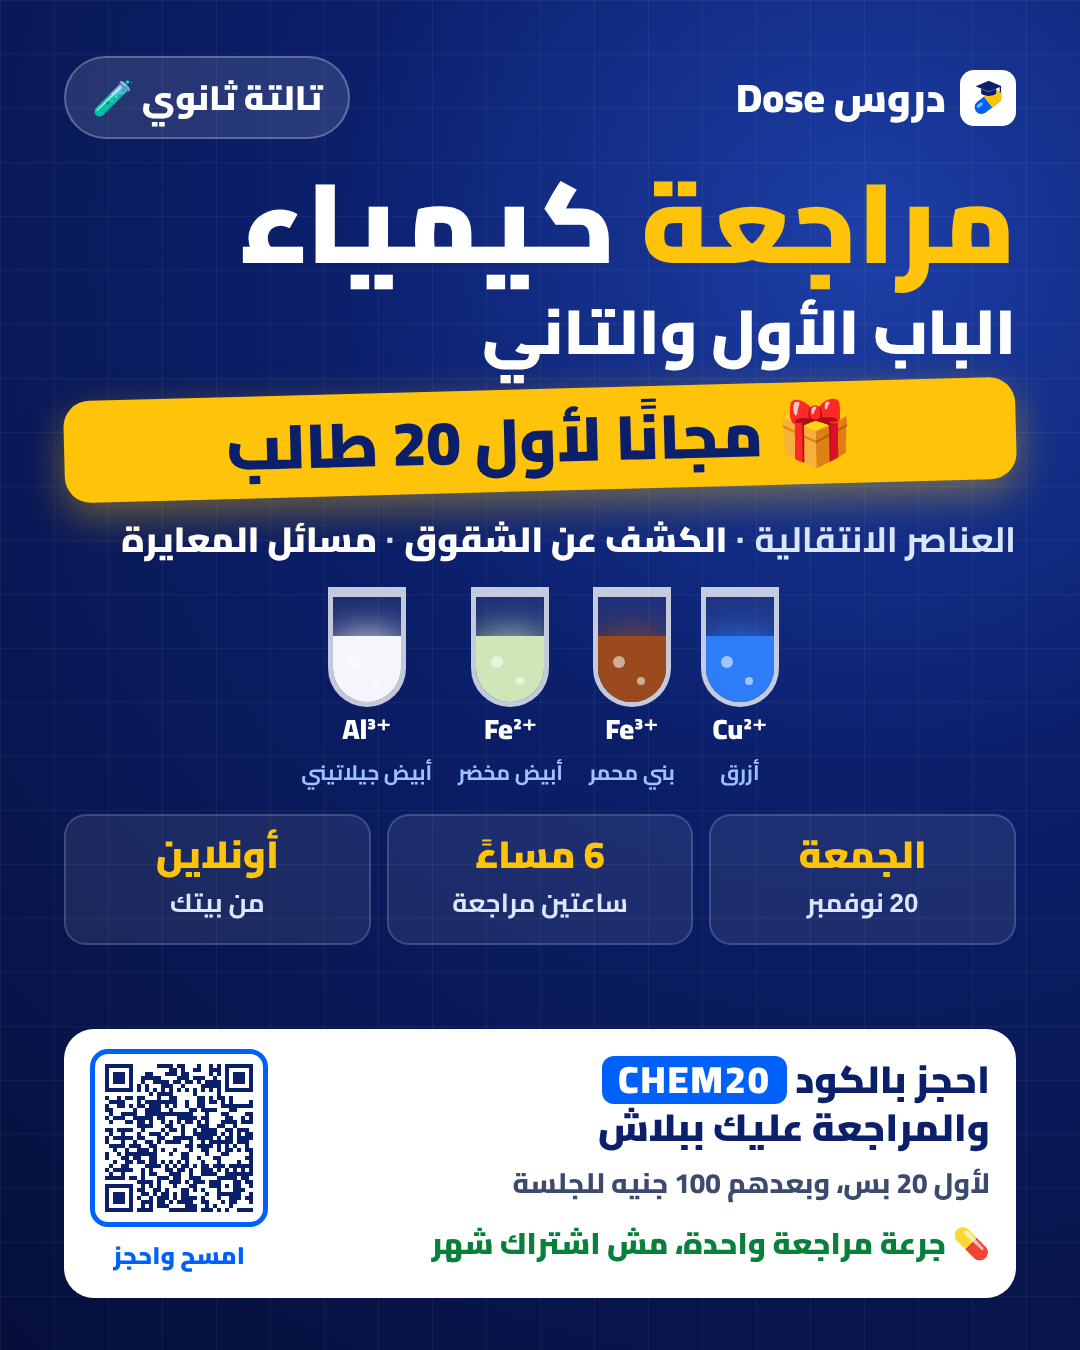
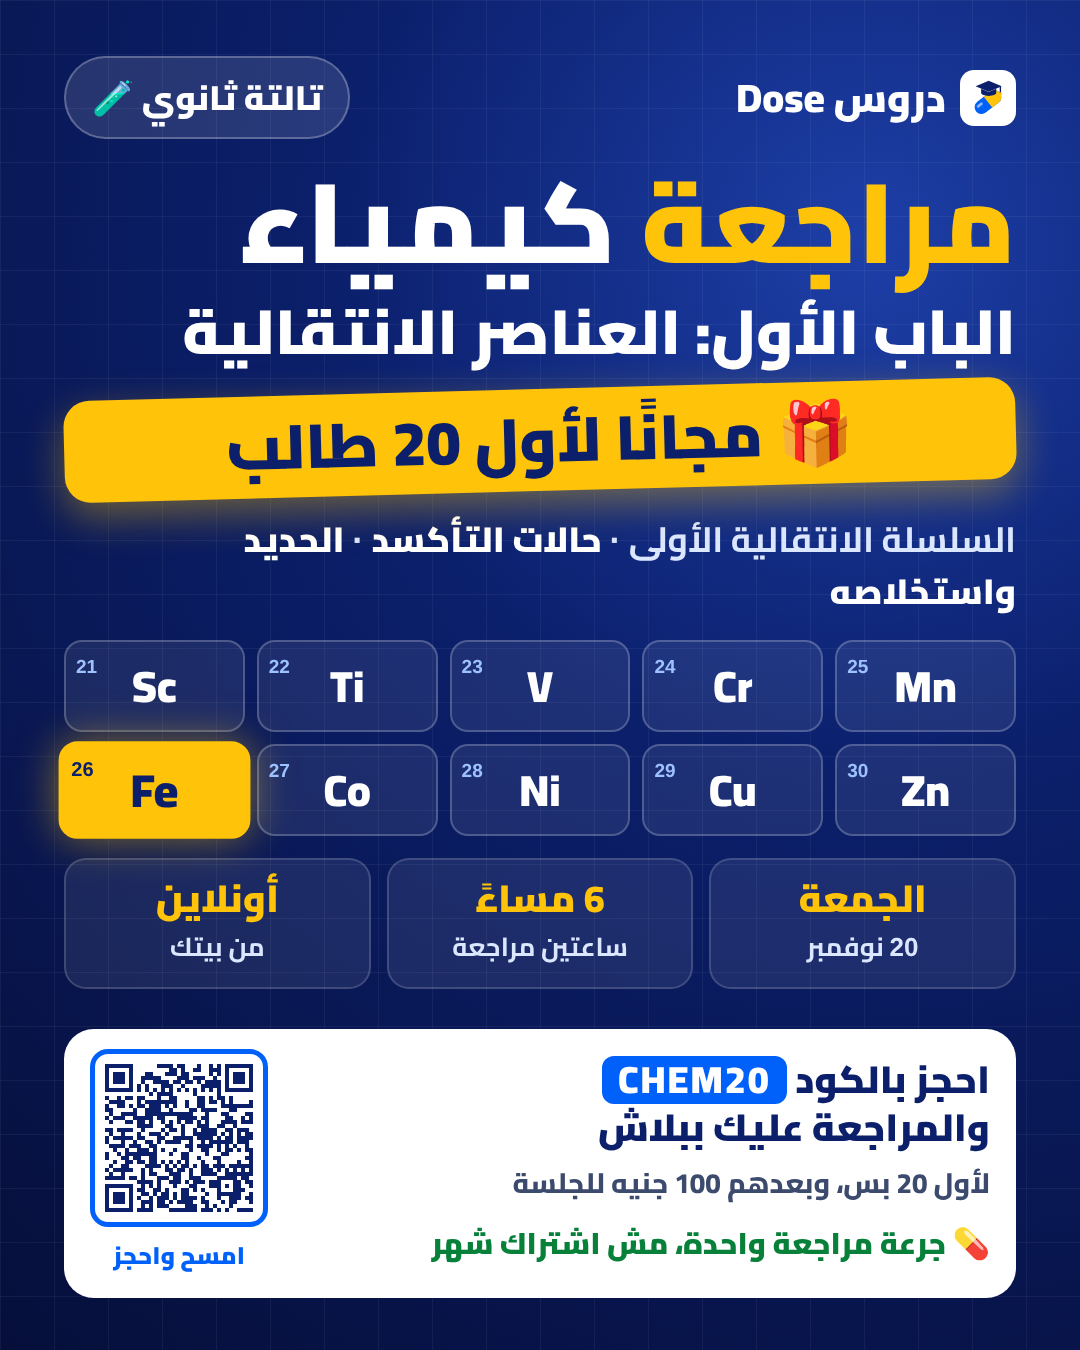
Chemistry review: chapter 1 only (transition elements); posters updated
Claude-Session: https://claude.ai/code/session_01PqXfUFUeuu3X2isE3Jtabv

diff --git a/marketing/campaigns/chem-review-nov20/poster-story.html b/marketing/campaigns/chem-review-nov20/poster-story.html
@@ -15,20 +15,18 @@ body{font-family:Cairo,sans-serif;color:#fff;background:radial-gradient(circle a
 .brand .m{width:56px;height:56px;background:#fff;border-radius:14px;padding:6px} .brand .m svg{width:100%;height:100%;display:block}
 .free{background:#FFC30A;color:#0B1F6B;font-weight:900;font-size:34px;padding:10px 26px;border-radius:999px;transform:rotate(-3deg);box-shadow:0 10px 30px rgba(255,195,10,.35)}
 .grade{background:rgba(255,255,255,.12);border:2px solid rgba(255,255,255,.25);font-weight:900;font-size:34px;padding:8px 26px;border-radius:999px}
-.h2{font-weight:900;font-size:72px;line-height:1.15;color:#fff;margin-top:-10px}
+.h2{font-weight:900;font-size:60px;line-height:1.15;color:#fff;margin-top:-10px}
 .ribbon{align-self:stretch;text-align:center;background:#FFC30A;color:#0B1F6B;font-weight:900;font-size:74px;line-height:1.25;padding:18px 10px;border-radius:26px;transform:rotate(-1.5deg);box-shadow:0 14px 40px rgba(255,195,10,.4)}
 .kicker{font-weight:800;font-size:36px;color:#9ec2ff}
 .h1{font-weight:900;font-size:132px;line-height:1.1}
 .h1 .y{color:#FFC30A}
 .sub{font-weight:700;font-size:35px;line-height:1.5;color:#dbe6ff}
 .sub b{color:#fff}
-.tubes{display:flex;gap:26px;justify-content:center;margin:10px 0}
-.tube{display:flex;flex-direction:column;align-items:center;gap:6px}
-.glass{position:relative;width:96px;height:230px;border:5px solid rgba(255,255,255,.75);border-top:none;border-radius:0 0 50px 50px;overflow:hidden;background:rgba(255,255,255,.06)}
-.glass:before{content:"";position:absolute;top:0;left:-9px;right:-9px;height:10px;background:rgba(255,255,255,.75);border-radius:6px}
-.liq{position:absolute;inset:auto 0 0 0;height:58%;background:var(--c);box-shadow:0 0 40px var(--c)}
-.bub{position:absolute;width:12px;height:12px;border-radius:50%;background:rgba(255,255,255,.55)} .b1{left:22%;bottom:30%} .b2{left:58%;bottom:15%;width:8px;height:8px}
-.tube b{font-size:34px;font-weight:900;line-height:1.2} .tube span{font-size:24px;font-weight:700;color:#9ec2ff}
+.tubes{display:grid;grid-template-columns:repeat(5,1fr);gap:16px;direction:ltr;margin:10px 0}
+.el{position:relative;background:rgba(255,255,255,.08);border:2px solid rgba(255,255,255,.22);border-radius:18px;height:130px;display:grid;place-items:center}
+.el i{position:absolute;top:6px;left:10px;font-style:normal;font-weight:700;font-size:24px;color:#9ec2ff}
+.el b{font-weight:900;font-size:58px}
+.el.fe{background:#FFC30A;border-color:#FFC30A;color:#0B1F6B;box-shadow:0 0 40px rgba(255,195,10,.5);transform:scale(1.06)} .el.fe i{color:#0B1F6B}
 .when{display:grid;grid-template-columns:repeat(3,1fr);gap:16px}
 .when div{background:rgba(255,255,255,.08);border:2px solid rgba(255,255,255,.16);border-radius:22px;padding:16px 10px;text-align:center}
 .when b{display:block;font-size:44px;font-weight:900;color:#FFC30A;line-height:1.2}
@@ -59,18 +57,10 @@ body{font-family:Cairo,sans-serif;color:#fff;background:radial-gradient(circle a
 </svg>
 </span>دروس Dose</div><div class="grade">تالتة ثانوي 🧪</div></div>
 <div class="h1"><span class="y">مراجعة</span> كيمياء</div>
-<div class="h2">الباب الأول والتاني</div>
+<div class="h2">الباب الأول: العناصر الانتقالية</div>
 <div class="ribbon">🎁 مجانًا لأول 20 طالب</div>
-<div class="sub">العناصر الانتقالية · <b>الكشف عن الشقوق</b> · <b>مسائل المعايرة</b></div>
-<div class="tubes"><div class="tube" style="--c:#2f7df6;--d:0">
-  <div class="glass"><div class="liq"></div><div class="bub b1"></div><div class="bub b2"></div></div>
-  <b dir="ltr">Cu²⁺</b><span>أزرق</span></div><div class="tube" style="--c:#9a4a1c;--d:1">
-  <div class="glass"><div class="liq"></div><div class="bub b1"></div><div class="bub b2"></div></div>
-  <b dir="ltr">Fe³⁺</b><span>بني محمر</span></div><div class="tube" style="--c:#cfe6b8;--d:2">
-  <div class="glass"><div class="liq"></div><div class="bub b1"></div><div class="bub b2"></div></div>
-  <b dir="ltr">Fe²⁺</b><span>أبيض مخضر</span></div><div class="tube" style="--c:#f4f6fb;--d:3">
-  <div class="glass"><div class="liq"></div><div class="bub b1"></div><div class="bub b2"></div></div>
-  <b dir="ltr">Al³⁺</b><span>أبيض جيلاتيني</span></div></div>
+<div class="sub">السلسلة الانتقالية الأولى · <b>حالات التأكسد</b> · <b>الحديد واستخلاصه</b></div>
+<div class="tubes"><div class="el"><i>21</i><b>Sc</b></div><div class="el"><i>22</i><b>Ti</b></div><div class="el"><i>23</i><b>V</b></div><div class="el"><i>24</i><b>Cr</b></div><div class="el"><i>25</i><b>Mn</b></div><div class="el fe"><i>26</i><b>Fe</b></div><div class="el"><i>27</i><b>Co</b></div><div class="el"><i>28</i><b>Ni</b></div><div class="el"><i>29</i><b>Cu</b></div><div class="el"><i>30</i><b>Zn</b></div></div>
 <div class="when"><div><b>الجمعة</b><span>20 نوفمبر</span></div><div><b>6 مساءً</b><span>ساعتين مراجعة</span></div><div><b>أونلاين</b><span>من بيتك</span></div></div>
 <div class="offer"><div class="t">
   <div class="l1">احجز بالكود <span class="code">CHEM20</span><br/>والمراجعة عليك ببلاش</div>

diff --git a/marketing/campaigns/chem-review-nov20/poster-feed.html b/marketing/campaigns/chem-review-nov20/poster-feed.html
@@ -22,13 +22,11 @@ body{font-family:Cairo,sans-serif;color:#fff;background:radial-gradient(circle a
 .h1 .y{color:#FFC30A}
 .sub{font-weight:700;font-size:35px;line-height:1.5;color:#dbe6ff}
 .sub b{color:#fff}
-.tubes{display:flex;gap:26px;justify-content:center;margin:0}
-.tube{display:flex;flex-direction:column;align-items:center;gap:6px}
-.glass{position:relative;width:78px;height:120px;border:5px solid rgba(255,255,255,.75);border-top:none;border-radius:0 0 50px 50px;overflow:hidden;background:rgba(255,255,255,.06)}
-.glass:before{content:"";position:absolute;top:0;left:-9px;right:-9px;height:10px;background:rgba(255,255,255,.75);border-radius:6px}
-.liq{position:absolute;inset:auto 0 0 0;height:58%;background:var(--c);box-shadow:0 0 40px var(--c)}
-.bub{position:absolute;width:12px;height:12px;border-radius:50%;background:rgba(255,255,255,.55)} .b1{left:22%;bottom:30%} .b2{left:58%;bottom:15%;width:8px;height:8px}
-.tube b{font-size:28px;font-weight:900;line-height:1.2} .tube span{font-size:21px;font-weight:700;color:#9ec2ff}
+.tubes{display:grid;grid-template-columns:repeat(5,1fr);gap:12px;direction:ltr;margin:0}
+.el{position:relative;background:rgba(255,255,255,.08);border:2px solid rgba(255,255,255,.22);border-radius:18px;height:92px;display:grid;place-items:center}
+.el i{position:absolute;top:6px;left:10px;font-style:normal;font-weight:700;font-size:19px;color:#9ec2ff}
+.el b{font-weight:900;font-size:44px}
+.el.fe{background:#FFC30A;border-color:#FFC30A;color:#0B1F6B;box-shadow:0 0 40px rgba(255,195,10,.5);transform:scale(1.06)} .el.fe i{color:#0B1F6B}
 .when{display:grid;grid-template-columns:repeat(3,1fr);gap:16px}
 .when div{background:rgba(255,255,255,.08);border:2px solid rgba(255,255,255,.16);border-radius:22px;padding:16px 10px;text-align:center}
 .when b{display:block;font-size:38px;font-weight:900;color:#FFC30A;line-height:1.2}
@@ -59,18 +57,10 @@ body{font-family:Cairo,sans-serif;color:#fff;background:radial-gradient(circle a
 </svg>
 </span>دروس Dose</div><div class="grade">تالتة ثانوي 🧪</div></div>
 <div class="h1"><span class="y">مراجعة</span> كيمياء</div>
-<div class="h2">الباب الأول والتاني</div>
+<div class="h2">الباب الأول: العناصر الانتقالية</div>
 <div class="ribbon">🎁 مجانًا لأول 20 طالب</div>
-<div class="sub">العناصر الانتقالية · <b>الكشف عن الشقوق</b> · <b>مسائل المعايرة</b></div>
-<div class="tubes"><div class="tube" style="--c:#2f7df6;--d:0">
-  <div class="glass"><div class="liq"></div><div class="bub b1"></div><div class="bub b2"></div></div>
-  <b dir="ltr">Cu²⁺</b><span>أزرق</span></div><div class="tube" style="--c:#9a4a1c;--d:1">
-  <div class="glass"><div class="liq"></div><div class="bub b1"></div><div class="bub b2"></div></div>
-  <b dir="ltr">Fe³⁺</b><span>بني محمر</span></div><div class="tube" style="--c:#cfe6b8;--d:2">
-  <div class="glass"><div class="liq"></div><div class="bub b1"></div><div class="bub b2"></div></div>
-  <b dir="ltr">Fe²⁺</b><span>أبيض مخضر</span></div><div class="tube" style="--c:#f4f6fb;--d:3">
-  <div class="glass"><div class="liq"></div><div class="bub b1"></div><div class="bub b2"></div></div>
-  <b dir="ltr">Al³⁺</b><span>أبيض جيلاتيني</span></div></div>
+<div class="sub">السلسلة الانتقالية الأولى · <b>حالات التأكسد</b> · <b>الحديد واستخلاصه</b></div>
+<div class="tubes"><div class="el"><i>21</i><b>Sc</b></div><div class="el"><i>22</i><b>Ti</b></div><div class="el"><i>23</i><b>V</b></div><div class="el"><i>24</i><b>Cr</b></div><div class="el"><i>25</i><b>Mn</b></div><div class="el fe"><i>26</i><b>Fe</b></div><div class="el"><i>27</i><b>Co</b></div><div class="el"><i>28</i><b>Ni</b></div><div class="el"><i>29</i><b>Cu</b></div><div class="el"><i>30</i><b>Zn</b></div></div>
 <div class="when"><div><b>الجمعة</b><span>20 نوفمبر</span></div><div><b>6 مساءً</b><span>ساعتين مراجعة</span></div><div><b>أونلاين</b><span>من بيتك</span></div></div>
 <div class="offer"><div class="t">
   <div class="l1">احجز بالكود <span class="code">CHEM20</span><br/>والمراجعة عليك ببلاش</div>

diff --git a/marketing/campaigns/chem-review-nov20/poster.py b/marketing/campaigns/chem-review-nov20/poster.py
@@ -7,16 +7,11 @@ fonts = os.path.abspath(os.path.join(here, '../../../src/Dose.Web/node_modules/@
 qr = open(os.path.join(here, 'qr.svg'), encoding='utf-8').read()
 mark = open(os.path.join(here, '../../../src/Dose.Web/public/brand/dose-mark.svg'), encoding='utf-8').read()
 
-# Test tubes: the real colours of the hydroxide precipitates students must memorise in chapter 2.
-TUBES = [('#2f7df6', 'Cu²⁺', 'أزرق'), ('#9a4a1c', 'Fe³⁺', 'بني محمر'), ('#cfe6b8', 'Fe²⁺', 'أبيض مخضر'), ('#f4f6fb', 'Al³⁺', 'أبيض جيلاتيني')]
+# The first transition series (chapter 1), iron highlighted.
+SERIES = [(21,'Sc'),(22,'Ti'),(23,'V'),(24,'Cr'),(25,'Mn'),(26,'Fe'),(27,'Co'),(28,'Ni'),(29,'Cu'),(30,'Zn')]
 
 def tubes():
-    out = []
-    for i, (c, ion, name) in enumerate(TUBES):
-        out.append(f'''<div class="tube" style="--c:{c};--d:{i}">
-  <div class="glass"><div class="liq"></div><div class="bub b1"></div><div class="bub b2"></div></div>
-  <b dir="ltr">{ion}</b><span>{name}</span></div>''')
-    return ''.join(out)
+    return ''.join(f'<div class="el{" fe" if sym=="Fe" else ""}"><i>{z}</i><b>{sym}</b></div>' for z, sym in SERIES)
 
 def page(w, h, story):
     return f'''<!doctype html><html lang="ar" dir="rtl"><head><meta charset="utf-8"><style>
@@ -36,20 +31,18 @@ body{{font-family:Cairo,sans-serif;color:#fff;background:radial-gradient(circle 
 .brand .m{{width:56px;height:56px;background:#fff;border-radius:14px;padding:6px}} .brand .m svg{{width:100%;height:100%;display:block}}
 .free{{background:#FFC30A;color:#0B1F6B;font-weight:900;font-size:34px;padding:10px 26px;border-radius:999px;transform:rotate(-3deg);box-shadow:0 10px 30px rgba(255,195,10,.35)}}
 .grade{{background:rgba(255,255,255,.12);border:2px solid rgba(255,255,255,.25);font-weight:900;font-size:34px;padding:8px 26px;border-radius:999px}}
-.h2{{font-weight:900;font-size:{'72px' if story else '62px'};line-height:1.15;color:#fff;margin-top:-10px}}
+.h2{{font-weight:900;font-size:{'60px' if story else '62px'};line-height:1.15;color:#fff;margin-top:-10px}}
 .ribbon{{align-self:stretch;text-align:center;background:#FFC30A;color:#0B1F6B;font-weight:900;font-size:{'74px' if story else '62px'};line-height:1.25;padding:{'18px 10px' if story else '12px 10px'};border-radius:26px;transform:rotate(-1.5deg);box-shadow:0 14px 40px rgba(255,195,10,.4)}}
 .kicker{{font-weight:800;font-size:36px;color:#9ec2ff}}
 .h1{{font-weight:900;font-size:{'132px' if story else '112px'};line-height:1.1}}
 .h1 .y{{color:#FFC30A}}
 .sub{{font-weight:700;font-size:{'35px' if story else '35px'};line-height:1.5;color:#dbe6ff}}
 .sub b{{color:#fff}}
-.tubes{{display:flex;gap:26px;justify-content:center;margin:{'10px 0' if story else '0'}}}
-.tube{{display:flex;flex-direction:column;align-items:center;gap:6px}}
-.glass{{position:relative;width:{'96px' if story else '78px'};height:{'230px' if story else '120px'};border:5px solid rgba(255,255,255,.75);border-top:none;border-radius:0 0 50px 50px;overflow:hidden;background:rgba(255,255,255,.06)}}
-.glass:before{{content:"";position:absolute;top:0;left:-9px;right:-9px;height:10px;background:rgba(255,255,255,.75);border-radius:6px}}
-.liq{{position:absolute;inset:auto 0 0 0;height:58%;background:var(--c);box-shadow:0 0 40px var(--c)}}
-.bub{{position:absolute;width:12px;height:12px;border-radius:50%;background:rgba(255,255,255,.55)}} .b1{{left:22%;bottom:30%}} .b2{{left:58%;bottom:15%;width:8px;height:8px}}
-.tube b{{font-size:{'34px' if story else '28px'};font-weight:900;line-height:1.2}} .tube span{{font-size:{'24px' if story else '21px'};font-weight:700;color:#9ec2ff}}
+.tubes{{display:grid;grid-template-columns:repeat(5,1fr);gap:{'16px' if story else '12px'};direction:ltr;margin:{'10px 0' if story else '0'}}}
+.el{{position:relative;background:rgba(255,255,255,.08);border:2px solid rgba(255,255,255,.22);border-radius:18px;height:{'130px' if story else '92px'};display:grid;place-items:center}}
+.el i{{position:absolute;top:6px;left:10px;font-style:normal;font-weight:700;font-size:{'24px' if story else '19px'};color:#9ec2ff}}
+.el b{{font-weight:900;font-size:{'58px' if story else '44px'}}}
+.el.fe{{background:#FFC30A;border-color:#FFC30A;color:#0B1F6B;box-shadow:0 0 40px rgba(255,195,10,.5);transform:scale(1.06)}} .el.fe i{{color:#0B1F6B}}
 .when{{display:grid;grid-template-columns:repeat(3,1fr);gap:16px}}
 .when div{{background:rgba(255,255,255,.08);border:2px solid rgba(255,255,255,.16);border-radius:22px;padding:16px 10px;text-align:center}}
 .when b{{display:block;font-size:{'44px' if story else '38px'};font-weight:900;color:#FFC30A;line-height:1.2}}
@@ -68,9 +61,9 @@ body{{font-family:Cairo,sans-serif;color:#fff;background:radial-gradient(circle 
 </style></head><body><div class="grid"></div><div class="wrap">
 <div class="top"><div class="brand"><span class="m">{mark}</span>دروس Dose</div><div class="grade">تالتة ثانوي 🧪</div></div>
 <div class="h1"><span class="y">مراجعة</span> كيمياء</div>
-<div class="h2">الباب الأول والتاني</div>
+<div class="h2">الباب الأول: العناصر الانتقالية</div>
 <div class="ribbon">🎁 مجانًا لأول 20 طالب</div>
-<div class="sub">العناصر الانتقالية · <b>الكشف عن الشقوق</b> · <b>مسائل المعايرة</b></div>
+<div class="sub">السلسلة الانتقالية الأولى · <b>حالات التأكسد</b> · <b>الحديد واستخلاصه</b></div>
 <div class="tubes">{tubes()}</div>
 <div class="when"><div><b>الجمعة</b><span>20 نوفمبر</span></div><div><b>6 مساءً</b><span>ساعتين مراجعة</span></div><div><b>أونلاين</b><span>من بيتك</span></div></div>
 <div class="offer"><div class="t">

diff --git a/src/Dose.Infrastructure/Persistence/ChemReviewNov2026.cs b/src/Dose.Infrastructure/Persistence/ChemReviewNov2026.cs
@@ -8,7 +8,7 @@ using Microsoft.EntityFrameworkCore;
 namespace Dose.Infrastructure.Persistence;
 
 /// <summary>
-/// Owner's request (17 Nov 2026): a chemistry review for 3rd secondary — chapters 1 and 2 — on Friday 20 Nov at 6 pm
+/// Owner's request (17 Nov 2026): a chemistry review for 3rd secondary — chapter 1 (transition elements) — on Friday 20 Nov at 6 pm
 /// Cairo, 100 EGP per student, free for the first 20 who use code CHEM20 (100%, one use per number, this session only).
 /// The session has a fixed id so its direct booking link (/sessions/{id}) could go on the poster before deploy.
 /// Runs once (audit marker); afterwards the session and the code are edited from the admin panel.
@@ -18,6 +18,20 @@ public static class ChemReviewNov2026
     const string Marker = "ChemReview/2026-11-20";
     public static readonly Guid SessionId = Guid.Parse("01a1f3c0-c4e3-7a20-8000-000000002011");
     public const string Code = "CHEM20";
+    // Owner narrowed the review to chapter 1 only (17 Nov, 12:41).
+    const string ScopeAr = "مراجعة الباب الأول: العناصر الانتقالية (السلسلة الانتقالية الأولى + الحديد)";
+    const string ScopeEn = "Review of chapter 1: transition elements (first transition series + iron)";
+    const string OldScopeAr = "مراجعة الباب الأول والتاني: العناصر الانتقالية والتحليل الكيميائي (الكشف عن الشقوق + المعايرة)";
+
+    /// <summary>If an earlier deploy already created the session with chapters 1+2, narrow it to chapter 1.</summary>
+    public static async Task NarrowToChapterOneAsync(DoseDbContext db, CancellationToken ct = default)
+    {
+        var s = await db.Sessions.FirstOrDefaultAsync(x => x.Id == SessionId && x.ScopeTitleAr == OldScopeAr, ct);
+        if (s is null) return;
+        s.ScopeTitleAr = ScopeAr;
+        s.ScopeTitleEn = ScopeEn;
+        await db.SaveChangesAsync(ct);
+    }
 
     /// <summary>Owner's request (17 Nov): the chemistry teacher shows as «محمد علاء» with a generic avatar (no real photo).</summary>
     public static async Task NameChemistryTeacherAsync(DoseDbContext db, CancellationToken ct = default)
@@ -63,8 +77,8 @@ public static class ChemReviewNov2026
         var start = CairoToUtc(new DateTime(2026, 11, 20, 18, 0, 0));
         var session = new Session
         {
-            ScopeTitleAr = "مراجعة الباب الأول والتاني: العناصر الانتقالية والتحليل الكيميائي (الكشف عن الشقوق + المعايرة)",
-            ScopeTitleEn = "Review of chapters 1 and 2: transition elements and chemical analysis (ion tests + titration)",
+            ScopeTitleAr = ScopeAr,
+            ScopeTitleEn = ScopeEn,
             GradeId = sec3.Id, StudyTrackId = track.Id, SubjectId = chemistry.Id, ServiceTypeId = service.Id, TeacherId = teacher.Id,
             StartUtc = start, EndUtc = start.AddMinutes(120), Mode = SessionMode.Group,
             Capacity = 60, MinParticipants = 1,
@@ -78,7 +92,7 @@ public static class ChemReviewNov2026
         if (!await db.PromoCodes.AnyAsync(p => p.Code == Code, ct))
             db.PromoCodes.Add(new PromoCode
             {
-                Code = Code, Description = "مراجعة الكيمياء 20 نوفمبر — مجانًا لأول 20", Kind = PromoKind.Percent, Value = 100,
+                Code = Code, Description = "مراجعة كيمياء الباب الأول 20 نوفمبر — مجانًا لأول 20", Kind = PromoKind.Percent, Value = 100,
                 SessionId = SessionId, MaxTotalUses = 20, MaxUsesPerPhone = 1, ValidToUtc = start,
                 CreatedBy = "campaign", CreatedAtUtc = nowUtc,
             });

diff --git a/tests/Dose.IntegrationTests/CampaignSeedTests.cs b/tests/Dose.IntegrationTests/CampaignSeedTests.cs
@@ -27,6 +27,7 @@ public sealed class CampaignSeedTests(DatabaseFixture fx)
         {
             var s = await db.Sessions.Include(x => x.PricingPlanVersion!).ThenInclude(v => v.Tiers).SingleAsync(x => x.Id == ChemReviewNov2026.SessionId);
             Assert.Equal(new DateTime(2026, 11, 20, 16, 0, 0, DateTimeKind.Utc), s.StartUtc); // 6 pm Cairo
+            Assert.StartsWith("مراجعة الباب الأول:", s.ScopeTitleAr);
             Assert.All(s.PricingPlanVersion!.Tiers, t => Assert.Equal(100m, t.PricePerStudent));
             var code = await db.PromoCodes.SingleAsync(p => p.Code == ChemReviewNov2026.Code);
             Assert.Equal((100m, 20, (Guid?)s.Id), (code.Value, code.MaxTotalUses!.Value, code.SessionId));

diff --git a/src/Dose.Api/DatabaseStartup.cs b/src/Dose.Api/DatabaseStartup.cs
@@ -93,6 +93,7 @@ public sealed class DatabaseStartup(
             await LaunchCatalog.EnsureAsync(db, DateTime.UtcNow, ct);
             await ChemReviewNov2026.EnsureAsync(db, DateTime.UtcNow, ct);
             await ChemReviewNov2026.NameChemistryTeacherAsync(db, ct);
+            await ChemReviewNov2026.NarrowToChapterOneAsync(db, ct);
         }
     }
 
